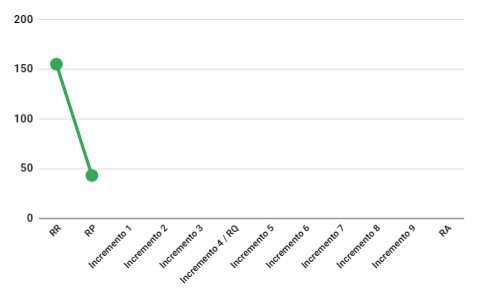
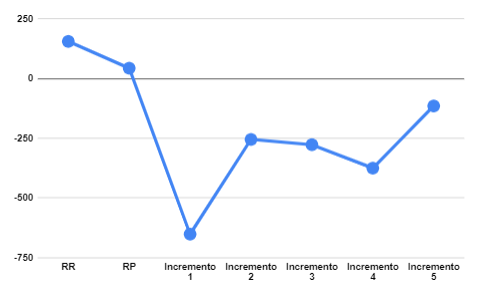
metriche

diff --git a/esterni/piano_di_qualifica/res/sez_A_resoconto_verifica.tex b/esterni/piano_di_qualifica/res/sez_A_resoconto_verifica.tex
@@ -33,20 +33,40 @@
 	\caption{Errori ortografici per revisione}
 \end{figure}
 
-\subsection{MP06 - Budget variance}
+\subsection{MP01 - Schedule Variance}
+A causa dei rischi incontrati, il gruppo risulta in ritardo rispetto alla schedulazione delle attività di progetto pianificate.
+\begin{figure}[H]
+	\centering
+	\includegraphics[width=11cm]{images/schedule_variance.png}
+	\caption{Andamento metrica Schedule Variance}
+\end{figure}
+
+\subsection{MP04 - Cost Variance}
+
+\begin{figure}[H]
+	\centering
+	\includegraphics[width=11cm]{images/cost_variance.png}
+	\caption{Andamento metrica Cost Variance}
+\end{figure}
+
+\subsection{MP06 - Budget Variance}
 La seguente metrica verrà tracciata per verificare se alla data corrente si è speso di più o di meno rispetto a quanto previsto.
 Se è $>$ 0 significa che il progetto sta spendendo il proprio budget con minor velocità di quanto pianificato, viceversa se negativo.
 \begin{figure}[H]
 	\centering
 	\includegraphics[width=11cm]{images/budget_variance.png}
-	\caption{Andamento metrica budget variance}
+	\caption{Andamento metrica Budget Variance}
 \end{figure}
 
-\subsection{MP07 - Unbudgeted risks}
+\subsection{MP07 - Unbudgeted Risks}
 Data la possibilità di incontrare rischi, non preventivati in fase di analisi, di seguito verranno illustrate tali evenienze per ogni revisione del progetto:
 \begin{figure}[H]
 	\centering
 	\includegraphics[width=11cm]{images/unbudgeted_risks.png}
-	\caption{Andamento metrica unbudgeted risks}
+	\caption{Andamento metrica Unbudgeted risks}
 \end{figure}
+
+
+
+
 
